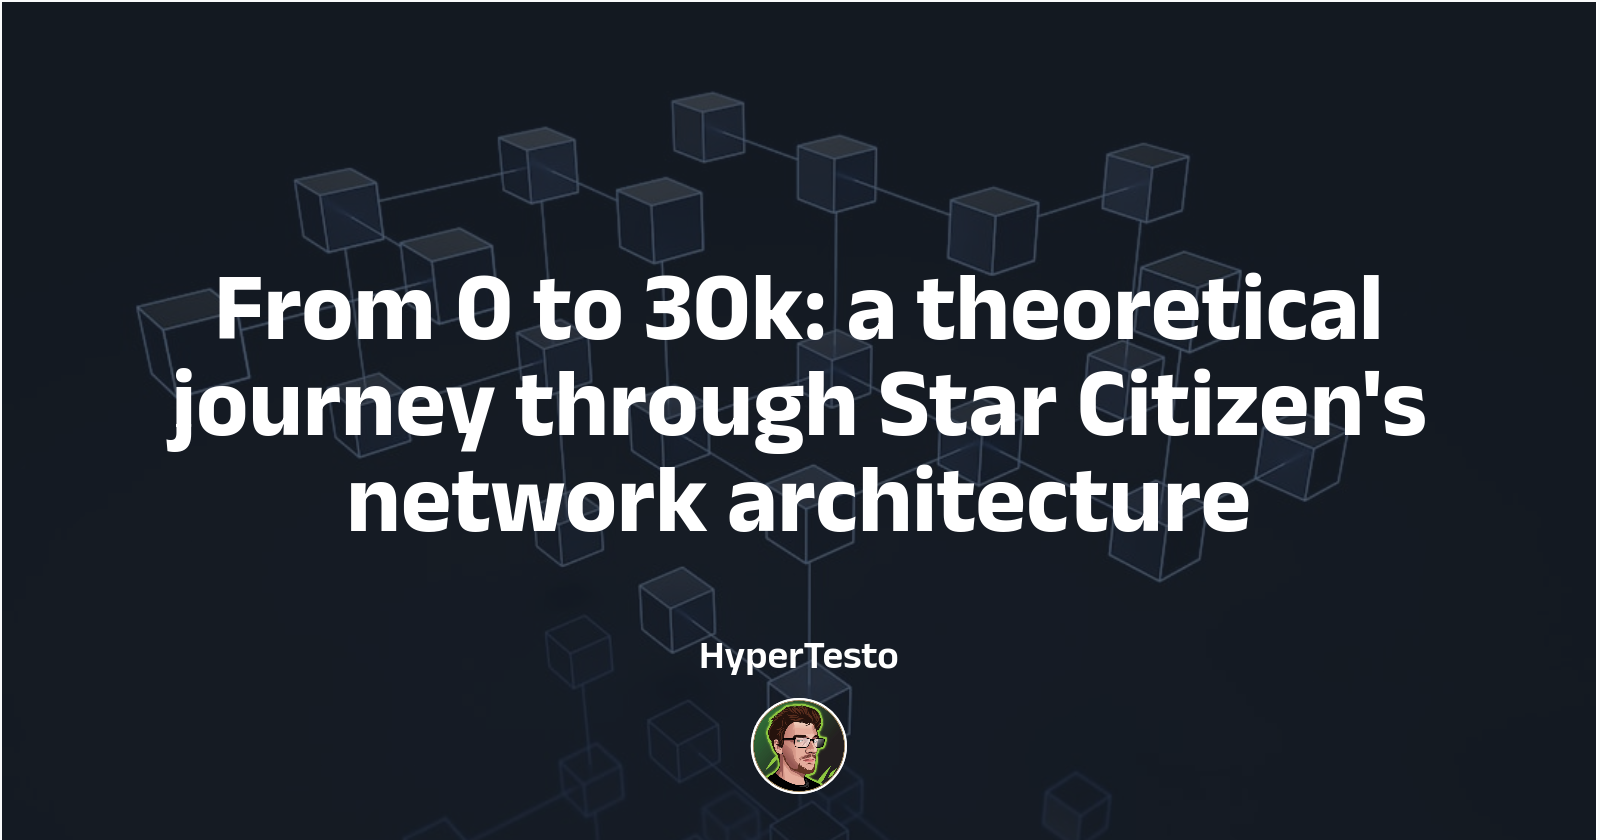
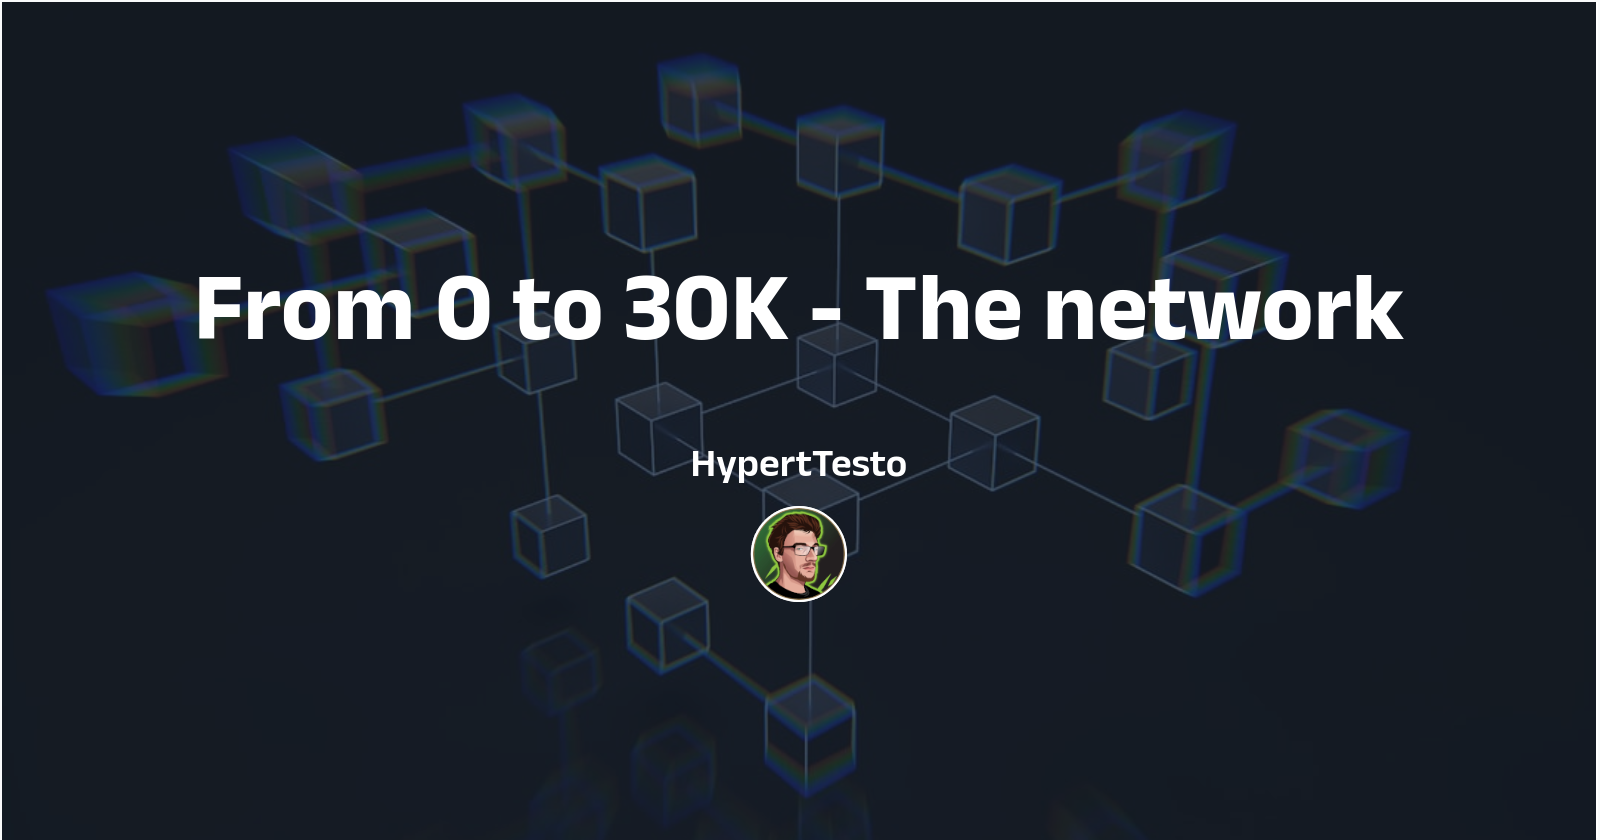
Final touches

Changed region(s): [[0.0312, 0.0619, 0.9062, 0.7119], [0.375, 0.681, 0.5625, 0.9595]]

diff --git a/content/blog/2024/11/from-0-to-30k-ep1/index.en.md b/content/blog/2024/11/from-0-to-30k-ep1/index.en.md
@@ -1,5 +1,5 @@
 ---
-title: "From 0 to 30K - Network"
+title: "From 0 to 30K - The network"
 aliases:
 - /en/blog/2024/11/from-0-to-30k
 date: 2024-11-17T18:56:31+01:00
@@ -26,7 +26,7 @@ Let's start with the network basics behind these daily space dramas. I'll be usi
 these concepts, because if there's one thing I love more than filling Hercules with trolleys, it's turning data into charts.
 
 
-Fair warning: like CIG's release dates, all numbers in this article are subject to change and should be taken with enough salt to fill a Starfarer.
+> Fair warning: like CIG's release dates, all numbers in this article are subject to change and should be taken with enough salt to fill a Starfarer.
 The goal here isn't to provide exact figures, but to understand the underlying concepts that make our space shenanigans possible
 (or occasionally impossible, looking at you, 30k).
 
@@ -39,8 +39,8 @@ Before we quantum travel into the deep analysis, let's understand some key conce
 
 A quick note about the math: in our analysis, we'll be using two main types of statistical distributions to model network behavior:
 
-- **Normal distribution** (also called Gaussian) for typical network conditions - think of your regular quantum travel, where most jumps take about the same time with small variations
-- **Exponential distribution** for modeling network issues - like those rare but dramatic moments when your ship decides interpretive dance is its true calling. It gives us lots of normal values but allows for those occasional dramatic spikes
+- **[Normal distribution](https://en.wikipedia.org/wiki/Normal_distribution)** (also called Gaussian) for typical network conditions - think of your regular quantum travel, where most jumps take about the same time with small variations
+- **[Exponential distribution](https://en.wikipedia.org/wiki/Exponential_distribution)** for modeling network issues - like those rare but dramatic moments when your ship decides interpretive dance is its true calling. It gives us lots of normal values but allows for those occasional dramatic spikes
 
 These aren't just arbitrary choices - they're commonly used in real network analysis because they match what we actually see in practice.
 The normal distribution is perfect for modeling stable connections with small variations, while the exponential distribution captures those
@@ -76,14 +76,24 @@ plt.title('RTT Distribution: Good vs Poor Connection')
 plt.legend()
 ```
 
+{{< figure src="rtt.png" alt="RTT" caption="RTT distribution of two different connections" >}}
+
 This directly affects your gameplay:
 - Low RTT (~50ms): Your shots feel responsive
 - Medium RTT (~150ms): Slight delay but playable
 - High RTT (300ms+): Noticeable lag in all actions
 
-### Jitter: the turbulence factor
+RTT isn't just about your shots landing - it affects everything from cargo trading to mining charge timing.
+A 300ms delay might be barely noticeable when you're casually touring Lorville, but it becomes painfully
+obvious when you're trying to dodge torpedoes in a dogfight.
 
-Notice how the "Poor Connection" had a much wider spread than the "Good Connection" - that's jitter in action. While RTT tells you the average delay, jitter (measured as standard deviation) shows how stable that delay is. It's like comparing:
+That's why some activities are more "latency sensitive" than others, and why your org mate keeps blaming their
+"high ping" for losing that 1v1[^a].
+
+### Jitter: the turbulence[^0] factor
+
+Notice how the "Poor Connection" had a much wider spread than the "Good Connection"? That's jitter in action.
+While RTT tells you the average delay, jitter (measured as standard deviation) shows how stable that delay is. It's like comparing:
 
 - Low jitter (SD ~5ms): Like the tight distribution in our "Good Connection" - smooth quantum travel
 - High jitter (SD ~30ms): Like the wide spread in our "Poor Connection" - bumpy atmospheric flight
@@ -103,31 +113,56 @@ plt.title('Impact of Jitter on Connection Stability')
 plt.legend()
 ```
 
+{{< figure src="jitter.png" alt="Jitter" caption="Jitter distribution of two different connections" >}}
+
+This helps explain many common "network weirdness" moments in the verse.
+High jitter is actually worse for gameplay than consistently high latency - your brain can adapt to a delay,
+but it can't adapt to a delay that keeps changing. Think about it: a stable 150ms RTT means you can learn to
+lead your targets by a consistent amount, but erratic jitter means sometimes you need to lead by 50ms, sometimes by 200ms.
+
+That's why you might have a higher average ping than your friend but a smoother combat experience - stability often matters more than speed.
+
 ### Percentiles: beyond the average
 
 Averages can be misleading. Percentiles give us a better picture:
 
 ```python
 # Generate realistic game session data
-session_data = np.random.exponential(50, 1000)
+session_data = np.random.exponential(50, 10000)
 
-# Calculate key percentiles
-p50 = np.percentile(session_data, 50)  # Median experience
-p95 = np.percentile(session_data, 95)  # Occasional spikes
-p99 = np.percentile(session_data, 99)  # Rare but severe issues
+# Calculate percentiles from 1 to 100
+percentiles = range(1, 101)
+latencies = np.percentile(session_data, percentiles)
 
-# Visualize with markers for percentiles
 plt.figure(figsize=(12, 6))
-sns.histplot(session_data, bins=50)
-plt.axvline(p50, color='g', linestyle='--', label='P50 (Median)')
-plt.axvline(p95, color='y', linestyle='--', label='P95')
-plt.axvline(p99, color='r', linestyle='--', label='P99')
-plt.title('Network Performance Distribution')
-plt.xlabel('Latency (ms)')
+
+# Main plot showing percentiles vs latency
+plt.plot(percentiles, latencies, 'b-', label='Latency Distribution')
+
+# Highlight key percentiles
+p50 = np.percentile(session_data, 50)
+p95 = np.percentile(session_data, 95)
+p99 = np.percentile(session_data, 99)
+
+# Add markers for key percentiles
+plt.plot(50, p50, 'go', label=f'P50 (Median): {p50:.1f}ms')
+plt.plot(95, p95, 'yo', label=f'P95: {p95:.1f}ms')
+plt.plot(99, p99, 'ro', label=f'P99: {p99:.1f}ms')
+
+plt.grid(True, alpha=0.2)
+plt.xlabel('Percentile')
+plt.ylabel('Latency (ms)')
+plt.title('Latency Distribution by Percentile')
 plt.legend()
 ```
 
-This helps explain why:
+{{< figure src="percentiles.png" alt="Jitter" caption="Visualizing percentiles" >}}
+
+Understanding percentiles helps explain those moments when your org mate insists "but my connection is fine!"
+while their ship is break-dancing across Port Olisar[^b]. Sure, their P50 looks great in discord screenshots,
+but that P99 tells the real story of why their "perfectly executed landing" ended up redecorating the spaceport.
+
+When it comes to network performance, averages hide the moments that really matter, this helps explain why:
 - Your average ping might look fine, but you still experience occasional issues
 - Some players have different experiences with similar average connections
 - Network problems often feel worse than the numbers suggest
@@ -139,65 +174,56 @@ This helps explain why:
 While modern internet connections usually handle client bandwidth needs just fine, it's worth thinking about the bigger picture. Your client might only need to send and receive data about nearby ships, but imagine being the server:
 
 ```python
-# Simulate server bandwidth requirements
-def calculate_server_bandwidth(num_players, data_per_player=1000):  # 1KB per player
+# Simulate different server bandwidth requirements
+def calculate_bandwidth_naive(num_players, data_per_player=1000):  # 1KB per player
     total_bandwidth = 0
-    # Each player needs updates about other nearby players
+    # Each player needs updates about ALL other players
+    for player in range(num_players):
+        total_bandwidth += (num_players - 1) * data_per_player  # O(n²) scaling
+    return total_bandwidth / (1024 * 1024)  # Convert to MB/s
+
+def calculate_bandwidth_basic(num_players, data_per_player=1000):  # 1KB per player
+    total_bandwidth = 0
+    # Each player needs updates about nearby players
     for player in range(num_players):
         nearby_players = min(num_players - 1, 50)  # Assume max 50 relevant players
-        total_bandwidth += nearby_players * data_per_player
+        total_bandwidth += nearby_players * data_per_player  # O(n) scaling
+    return total_bandwidth / (1024 * 1024)  # Convert to MB/s
+
+def calculate_bandwidth_optimized(num_players, data_per_player=1000):  # 1KB per player
+    total_bandwidth = 0
+    for player in range(num_players):
+        # Use dynamic interest management and compression
+        nearby_players = min(num_players - 1, 50)
+        compression_ratio = 0.6 + (0.4 * (nearby_players / 50))  # Better compression with fewer players
+        total_bandwidth += nearby_players * data_per_player * compression_ratio
     return total_bandwidth / (1024 * 1024)  # Convert to MB/s
 
 players = range(10, 501, 10)
-bandwidth = [calculate_server_bandwidth(n) for n in players]
+bandwidth_naive = [calculate_bandwidth_naive(n) for n in players]
+bandwidth_basic = [calculate_bandwidth_basic(n) for n in players]
+bandwidth_optimized = [calculate_bandwidth_optimized(n) for n in players]
 
 plt.figure(figsize=(10, 6))
-plt.plot(players, bandwidth)
+plt.plot(players, bandwidth_naive, label='Naive (O(n²))', linestyle='--')
+plt.plot(players, bandwidth_basic, label='Basic Interest Management')
+plt.plot(players, bandwidth_optimized, label='Optimized (with compression)')
 plt.title('Server Bandwidth vs Player Count')
 plt.xlabel('Number of Players')
 plt.ylabel('Bandwidth Required (MB/s)')
+plt.legend()
 plt.grid(True)
 ```
+Let's look at three different approaches to handling server bandwidth:
 
-Hipotetical bandwidth requirements:
-- You visiting Port Olisar: ~100KB/s
-- You during combat: ~300KB/s
-- Server handling Port Olisar during free fly week: *nervous server noises*
+- Naive approach: Every player gets updates about every other player. This scales quadratically (_O(n²)_) - imagine the server trying to tell everyone about everyone else's coffee cups achieving orbit. This is why early MMOs often had strict player caps per server.
+- Basic Interest Management: Players only get updates about nearby entities (what Star Citizen calls "bubbles"). While still non-linear, this grows more slowly than the naive approach since each player only tracks a subset of the total population - you don't need to know about that Reclaimer on the other side of Stanton, but the server load still compounds as player counts increase.
+- Optimized Approach: Combines interest management with dynamic compression and optimization. The closer you are to other players, the more detailed the updates need to be. Imagine getting highly detailed info about the ship you're about to crash into, but just basic position updates for that distant Bengal carrier[^2].
+
+{{< figure src="bandwidth.png" alt="RTT" caption="Server bandwith scaling with players count" >}}
 
 Think about it: every time someone spawns their shiny new 890 Jump (and we know there's always someone spawning an 890), the server needs to tell everyone nearby about each of its 12,937 polygons and that one coffee cup that's about to achieve orbit.
-
-### Real-World Impact on Gameplay
-
-Let's see how these metrics affect different activities:
-
-```python
-# Simulate different gameplay scenarios
-def simulate_gameplay(rtt, jitter, activity_threshold):
-    samples = np.random.normal(rtt, jitter, 1000)
-    reliability = np.mean(samples < activity_threshold)
-    return reliability
-
-activities = {
-    'Mining': 200,  # More latency tolerant
-    'Trading': 150,  # Medium sensitivity
-    'Combat': 100   # Highly sensitive
-}
-
-results = {activity: simulate_gameplay(100, 20, threshold)
-          for activity, threshold in activities.items()}
-
-# Visualize activity reliability
-plt.figure(figsize=(10, 6))
-plt.bar(results.keys(), results.values())
-plt.title('Network Impact on Different Activities')
-plt.ylabel('Reliability Score')
-```
-
-Let's see how these network metrics affect different activities:
-- Mining: Like dating - timing is important but a little delay won't kill you
-- Trading: Similar to your ship's insurance expiration - you have some wiggle room
-- Combat: As precise as explaining to your org why you "borrowed" their Carrack
-
+PS: don't forget about those
 ## So what have we learned this week?
 
 Networking isn't just about having a fast internet connection - it's a complex dance of RTT, jitter, bandwidth, and percentiles that all work together to determine whether your perfect shot lands or your ship decides to practice interpretive dance during quantum travel.
@@ -209,3 +235,8 @@ By analyzing the data and visualizations, we can see why:
 - Your friend's "perfect" 50ms connection might actually perform worse than your "stable" 100ms one when jitter enters the chat
 
 And perhaps most importantly, we've learned that somewhere out there, a server is doing complex bandwidth calculations to figure out how to tell everyone about that one player who decided to fill their C2 with `1E+2` trolleys (because apparently regular notation isn't enough to express this level of abuse).
+
+[^0]: Or _Turbolent_, in CIG terms :angel:
+[^a]: Though we all know it was their "creative interpretation of flight mechanics" that led to that intimate encounter with an asteroid
+[^b]: Press F to pay respect
+[^2]: If we'll ever gonna see it

diff --git a/content/series/from-0-to-30K/_index.en.md b/content/series/from-0-to-30K/_index.en.md
@@ -1,13 +1,16 @@
 ---
 title: "From 0 to 30k: a theoretical journey of distributed systems through the lens of Star Citizen"
-showTableOfContents: false
+showTableOfContents: true
 ---
+
+{{< figure src="cover.png" alt="cover" >}}
+
 *"Using space games to understand distributed systems, or how I learned to stop worrying and love the 30k"*
 
 It all began innocently enough with the latest ISC. One moment I was watching them talking about optimizing some
 particular function and *that thing coming next patch*, there I was, flooding my org's Discord with rambles about
 exponential distributions and network statistics. Because apparently analyzing network architectures of a game that
-has already consumed more of my wallet than I'm willing to admit publicly is what I do for fun now - at least it's cheaper than buying another Idris.
+has already consumed more of my wallet than I'm willing to admit publicly is what I do for fun now - at least it's cheaper than buying another ship :money_with_wings:.
 
 Turns out my org mates' polite suggestion to "maybe write this down somewhere" was actually a good idea.
 Though I suspect they just wanted to reclaim the Discord channels from my impromptu statistics lectures and network performance rants.
@@ -63,7 +66,7 @@ Each article combines:
 - Interactive Python notebooks to play with
 - Real scenarios from the verse
 - Mathematical foundations (where applicable)
-- Enough sarcasm to fill a Hercules
+- Enough sarcasm to fill a C2
 
 Whether you're a distributed systems engineer wondering why your Kafka cluster keeps exploding, a game dev trying to understand why
 physics grids are hard, or just someone curious about why computers sometimes hate us, hopefully these articles will help. And if not, at least we'll have some fun watching things break spectacularly in space.
